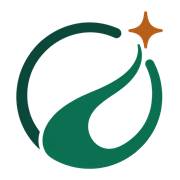
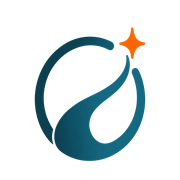
Aggiorna gli asset grafici con la nuova palette

diff --git a/src/main/resources/static/index.html b/src/main/resources/static/index.html
@@ -10,8 +10,8 @@
     <meta property="og:title" content="Simulatore FIRE">
     <meta property="og:description" content="Calcola il patrimonio necessario per il FIRE e il PAC mensile per raggiungerlo.">
     <meta property="og:url" content="https://simulatorefire.com/">
-    <meta property="og:image" content="https://simulatorefire.com/images/og-simulatore-fire.jpg?v=2">
-    <meta property="og:image:secure_url" content="https://simulatorefire.com/images/og-simulatore-fire.jpg?v=2">
+    <meta property="og:image" content="https://simulatorefire.com/images/og-simulatore-fire.jpg?v=3">
+    <meta property="og:image:secure_url" content="https://simulatorefire.com/images/og-simulatore-fire.jpg?v=3">
     <meta property="og:image:type" content="image/jpeg">
     <meta property="og:image:width" content="1200">
     <meta property="og:image:height" content="630">
@@ -19,11 +19,11 @@
     <meta name="twitter:card" content="summary_large_image">
     <meta name="twitter:title" content="Simulatore FIRE">
     <meta name="twitter:description" content="Calcola il patrimonio necessario per il FIRE e il PAC mensile per raggiungerlo.">
-    <meta name="twitter:image" content="https://simulatorefire.com/images/og-simulatore-fire.jpg?v=2">
+    <meta name="twitter:image" content="https://simulatorefire.com/images/og-simulatore-fire.jpg?v=3">
     <title>Calcolo FIRE Italia</title>
     <link rel="canonical" href="https://simulatorefire.com/">
-    <link rel="icon" type="image/png" sizes="32x32" href="/images/favicon-32x32.png?v=1">
-    <link rel="apple-touch-icon" sizes="180x180" href="/images/apple-touch-icon.png?v=1">
+    <link rel="icon" type="image/png" sizes="32x32" href="/images/favicon-32x32.png?v=2">
+    <link rel="apple-touch-icon" sizes="180x180" href="/images/apple-touch-icon.png?v=2">
     <link rel="preload" href="/fonts/InterVariable.woff2?v=4.1" as="font" type="font/woff2" crossorigin>
     <link rel="stylesheet" href="/styles-7c8e1a4b5d20.css?v=7.9">
     <script src="/app-91e2b4c7a630.js?v=7.9" defer></script>
@@ -31,7 +31,7 @@
 <body>
 <header class="site-header">
     <a class="brand" href="#top" aria-label="Calcolo FIRE Italia, torna all'inizio">
-        <img class="brand-logo" src="/images/logo-percorso-indipendenza.png?v=1" alt="" width="36" height="36">
+        <img class="brand-logo" src="/images/logo-percorso-indipendenza.png?v=2" alt="" width="36" height="36">
         <span>Calcolo FIRE Italia</span>
     </a>
     <a class="header-link" href="#come-funziona">Come funziona</a>
@@ -49,7 +49,7 @@
                 <div class="section-heading">
                     <div>
                         <p class="step-label step-label-with-logo">
-                            <img class="step-label-logo" src="/images/logo-percorso-indipendenza.png?v=1" alt="" width="22" height="22">
+                            <img class="step-label-logo" src="/images/logo-percorso-indipendenza.png?v=2" alt="" width="22" height="22">
                             <span>Percorso guidato</span>
                         </p>
                         <h2 id="fire-form-title">Costruisci il tuo scenario</h2>
@@ -415,7 +415,7 @@
         <div class="resources-heading">
             <div>
                 <p class="step-label step-label-with-logo">
-                    <img class="step-label-logo" src="/images/logo-percorso-indipendenza.png?v=1" alt="" width="22" height="22">
+                    <img class="step-label-logo" src="/images/logo-percorso-indipendenza.png?v=2" alt="" width="22" height="22">
                     <span>Rendite e risorse aggiuntive</span>
                 </p>
                 <h2 id="additional-resources-title">Aggiungi ciò che contribuirà al tuo piano</h2>

diff --git a/src/test/java/com/example/calcolatorefire/api/HomePageTest.java b/src/test/java/com/example/calcolatorefire/api/HomePageTest.java
@@ -42,12 +42,12 @@ class HomePageTest {
         mockMvc.perform(get("/index.html"))
                 .andExpect(status().isOk())
                 .andExpect(content().contentTypeCompatibleWith("text/html"))
-                .andExpect(content().string(containsString("href=\"/images/favicon-32x32.png?v=1\"")))
-                .andExpect(content().string(containsString("href=\"/images/apple-touch-icon.png?v=1\"")))
+                .andExpect(content().string(containsString("href=\"/images/favicon-32x32.png?v=2\"")))
+                .andExpect(content().string(containsString("href=\"/images/apple-touch-icon.png?v=2\"")))
                 .andExpect(content().string(containsString("property=\"og:title\" content=\"Simulatore FIRE\"")))
                 .andExpect(content().string(containsString("property=\"og:url\" content=\"https://simulatorefire.com/\"")))
-                .andExpect(content().string(containsString("property=\"og:image\" content=\"https://simulatorefire.com/images/og-simulatore-fire.jpg?v=2\"")))
-                .andExpect(content().string(containsString("property=\"og:image:secure_url\" content=\"https://simulatorefire.com/images/og-simulatore-fire.jpg?v=2\"")))
+                .andExpect(content().string(containsString("property=\"og:image\" content=\"https://simulatorefire.com/images/og-simulatore-fire.jpg?v=3\"")))
+                .andExpect(content().string(containsString("property=\"og:image:secure_url\" content=\"https://simulatorefire.com/images/og-simulatore-fire.jpg?v=3\"")))
                 .andExpect(content().string(containsString("property=\"og:image:width\" content=\"1200\"")))
                 .andExpect(content().string(containsString("property=\"og:image:height\" content=\"630\"")))
                 .andExpect(content().string(containsString("name=\"twitter:card\" content=\"summary_large_image\"")))
@@ -60,7 +60,7 @@ class HomePageTest {
                 .andExpect(content().string(not(containsString("Pianificazione FIRE, con ipotesi trasparenti"))))
                 .andExpect(content().string(not(containsString("Nessun account"))))
                 .andExpect(content().string(containsString("class=\"brand-logo\"")))
-                .andExpect(content().string(containsString("src=\"/images/logo-percorso-indipendenza.png?v=1\"")))
+                .andExpect(content().string(containsString("src=\"/images/logo-percorso-indipendenza.png?v=2\"")))
                 .andExpect(content().string(containsString("id=\"fire-form\"")))
                 .andExpect(content().string(containsString("class=\"app-layout is-wizard-view\" id=\"scenario-layout\"")))
                 .andExpect(content().string(containsString("class=\"wizard-progress\"")))
@@ -192,11 +192,11 @@ class HomePageTest {
                 .andExpect(status().isOk())
                 .andExpect(content().contentTypeCompatibleWith("text/css"));
 
-        mockMvc.perform(get("/images/logo-percorso-indipendenza.png").queryParam("v", "1"))
+        mockMvc.perform(get("/images/logo-percorso-indipendenza.png").queryParam("v", "2"))
                 .andExpect(status().isOk())
                 .andExpect(content().contentTypeCompatibleWith("image/png"));
 
-        byte[] faviconBytes = mockMvc.perform(get("/images/favicon-32x32.png").queryParam("v", "1"))
+        byte[] faviconBytes = mockMvc.perform(get("/images/favicon-32x32.png").queryParam("v", "2"))
                 .andExpect(status().isOk())
                 .andExpect(content().contentTypeCompatibleWith("image/png"))
                 .andReturn().getResponse().getContentAsByteArray();
@@ -204,7 +204,7 @@ class HomePageTest {
         assertEquals(32, favicon.getWidth());
         assertEquals(32, favicon.getHeight());
 
-        byte[] appleTouchIconBytes = mockMvc.perform(get("/images/apple-touch-icon.png").queryParam("v", "1"))
+        byte[] appleTouchIconBytes = mockMvc.perform(get("/images/apple-touch-icon.png").queryParam("v", "2"))
                 .andExpect(status().isOk())
                 .andExpect(content().contentTypeCompatibleWith("image/png"))
                 .andReturn().getResponse().getContentAsByteArray();
@@ -212,7 +212,7 @@ class HomePageTest {
         assertEquals(180, appleTouchIcon.getWidth());
         assertEquals(180, appleTouchIcon.getHeight());
 
-        byte[] openGraphImageBytes = mockMvc.perform(get("/images/og-simulatore-fire.jpg").queryParam("v", "2"))
+        byte[] openGraphImageBytes = mockMvc.perform(get("/images/og-simulatore-fire.jpg").queryParam("v", "3"))
                 .andExpect(status().isOk())
                 .andExpect(content().contentTypeCompatibleWith("image/jpeg"))
                 .andReturn().getResponse().getContentAsByteArray();
